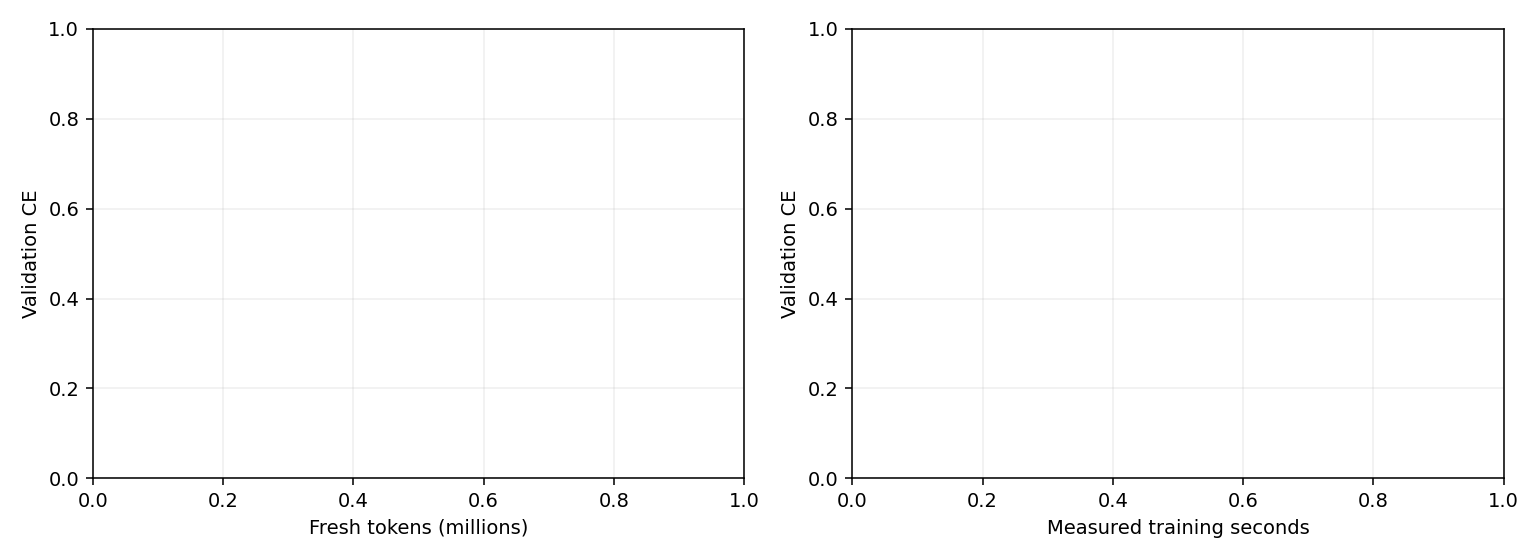
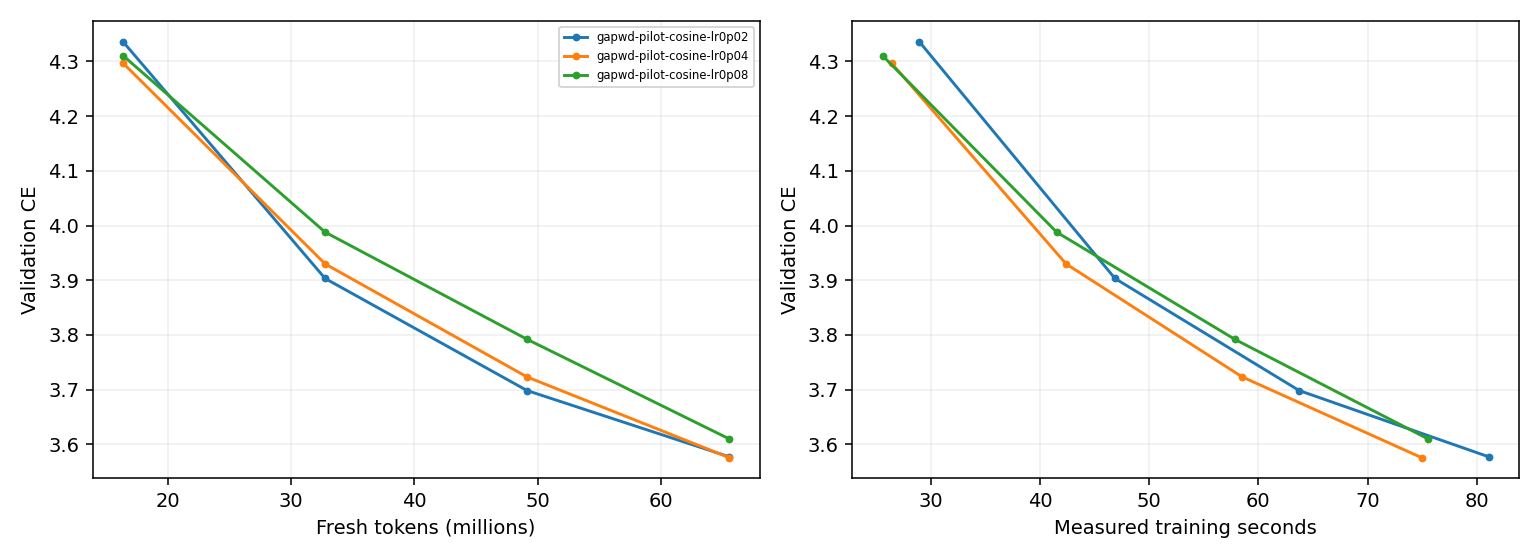
Update live Muon experiment results

diff --git a/research/unnormalized_muon/RESULTS.md b/research/unnormalized_muon/RESULTS.md
@@ -49,6 +49,9 @@ One B300 per job. CE is token cross-entropy (nats); lower is better. Rows with d
 | um-gapwd-first-reciprocal-001 | Clean Muon shifted reciprocal fixed_lambda=0.18375 WD:standard(0) | 64 | 0 | 0.04 | 6.374067 | 1.931619 | — | 77.77 |
 | um-gapwd-joint-native-001 | Clean GapWD joint native fixed_lambda=0.18375 WD:standard(0) | 64 | 0 | 0.04 | 6.369767 | 1.930554 | — | 94.57 |
 | um-gapwd-joint-uniform-001 | Clean GapWD joint uniform fixed_lambda=0.18375 WD:standard(0) | 64 | 0 | 0.04 | 6.390594 | 1.936845 | — | 95.12 |
+| um-gapwd-pilot-cosine-lr0p02 | Clean Native cooldown fixed_lambda=0.18375 WD:standard(0) | 2000 | 0 | 0.02 | 3.577361 | 1.084476 | — | 142.48 |
+| um-gapwd-pilot-cosine-lr0p04 | Clean Native cooldown fixed_lambda=0.18375 WD:standard(0) | 2000 | 0 | 0.04 | 3.575844 | 1.084019 | — | 135.71 |
+| um-gapwd-pilot-cosine-lr0p08 | Clean Native cooldown fixed_lambda=0.18375 WD:standard(0) | 2000 | 0 | 0.08 | 3.610093 | 1.094412 | — | 136.39 |
 | um-screen-00-0-native-lr0p005 | Native cooldown | 2000 | 0 | 0.005 | 3.734536 | 1.132046 | — | 145.49 |
 | um-screen-00-1-scaled-lr0p0002 | Unnormalized cooldown | 2000 | 0 | 0.0002 | 4.818060 | 1.460343 | — | 153.42 |
 | um-screen-00-2-constant-lr0p0002 | Unnormalized constant | 2000 | 0 | 0.0002 | 4.581043 | 1.388601 | — | 151.98 |
@@ -88,7 +91,7 @@ One B300 per job. CE is token cross-entropy (nats); lower is better. Rows with d
 
 Review of um-fw-diagnostic-001: Compiled training f0 compared against functional candidate losses; vanishing-step mismatch2-4e-5 exceeded tolerance, leading to curvature1e186 and45 skipped steps. Replaced by paired functional reference and candidates; retain all645 measured forwards and GPUcost.
 
-Conservative charged/reserved total: 5.7526 / 30 B300 GPU-hours. Includes prior smoke/failed attempts and current maximum-duration reservations. Six-slot central queue; one B300 per run.
+Conservative charged/reserved total: 7.4262 / 30 B300 GPU-hours. Includes prior smoke/failed attempts and current maximum-duration reservations. Six-slot central queue; one B300 per run.
 
 CLEAN geometry disables row equilibration and NorMuon. Original clean runs use zero matrix decay; new WD runs explicitly label standard or cautious decay and their CLI coefficient. Same five Polar Express steps and Frobenius correction; scale by the per-matrix nonnegative FP32 inner product of the native Nesterov input with the NS/Frobenius direction. Shape scaling occurs once outside the scalar. Legacy rows retain production extras and must be compared separately. Constant schedule changes only matrix LR; auxiliary schedules and momentum remain matched.
 

diff --git a/research/unnormalized_muon/DETAILED_EVAL.md b/research/unnormalized_muon/DETAILED_EVAL.md
@@ -197,3 +197,6 @@ um-gapwd-joint-uniform-001: accepted 64/64; skipped nonpositive blocks 37; media
 
 Timing seconds: direction=6.588, reference=2.197, candidates=1.032, auxiliary=0.523.
 
+| um-gapwd-pilot-cosine-lr0p02 | cooldown native | 0.1837499 | 2000 | 3.577361 | 0 | 142.48 |
+| um-gapwd-pilot-cosine-lr0p04 | cooldown native | 0.1837499 | 2000 | 3.575844 | 0 | 135.71 |
+| um-gapwd-pilot-cosine-lr0p08 | cooldown native | 0.1837499 | 2000 | 3.610093 | 0 | 136.39 |
